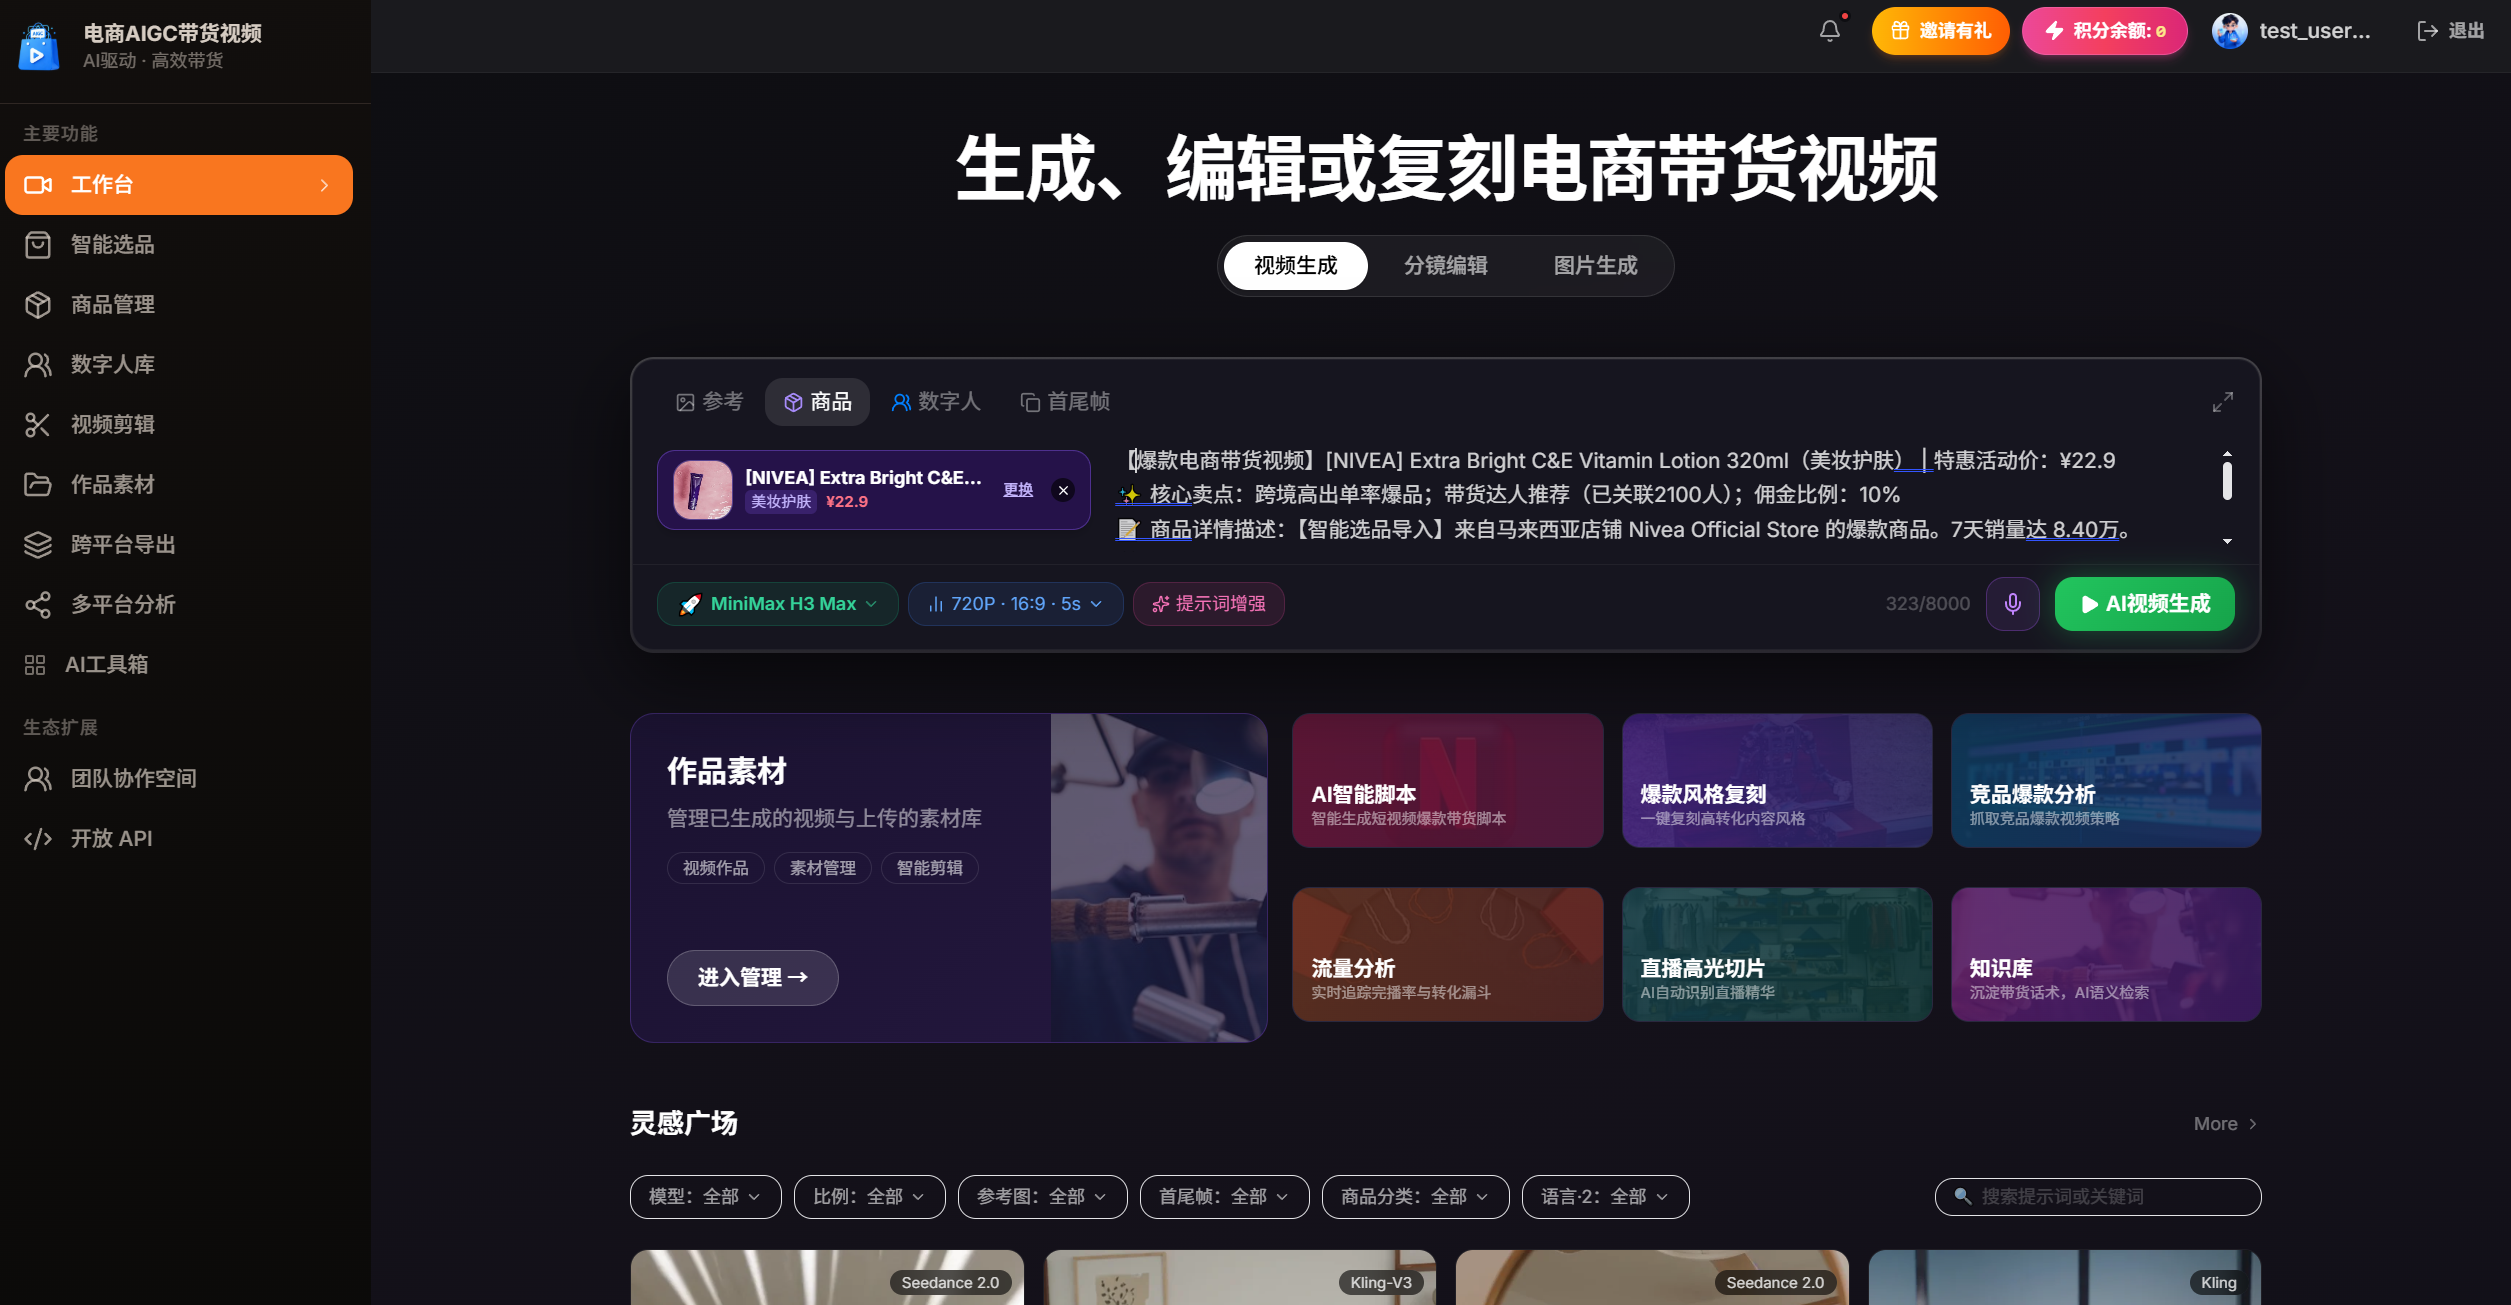
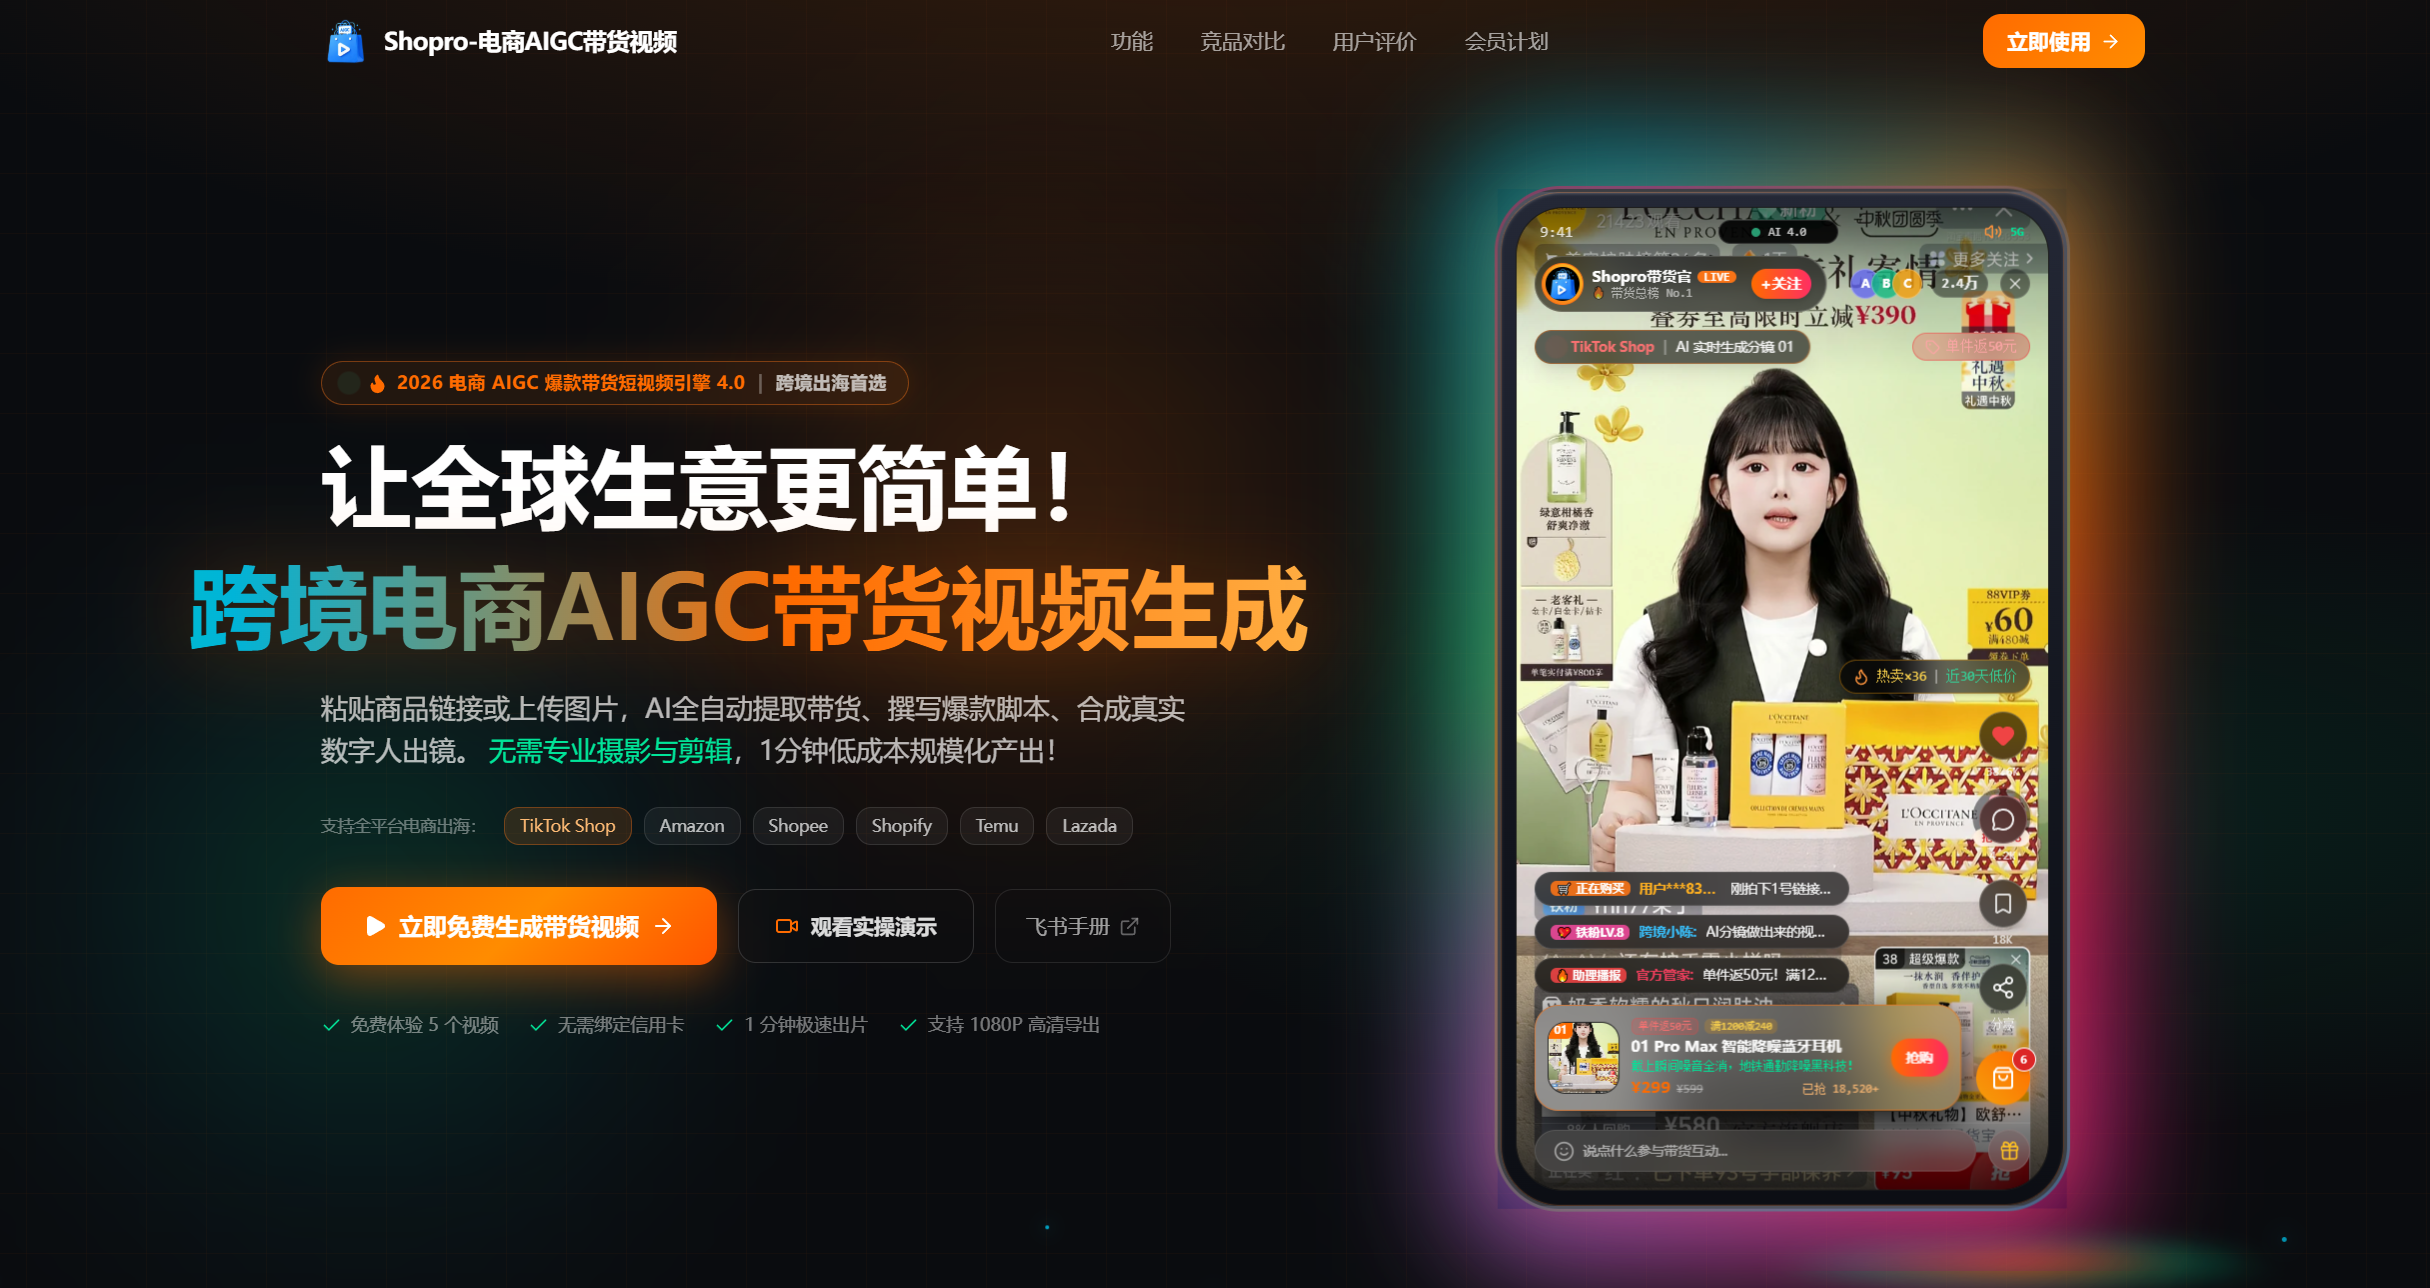
update README.md.

diff --git a/README.md b/README.md
@@ -16,7 +16,8 @@
 ---
 
 ## 📋 项目简介
-
+![输入图片说明](public/image.png)
+![输入图片说明](public/shop/image.png)
 **Shopro AI** 是面向抖音 / TikTok / 小红书 / Amazon 等电商平台的 **AIGC 带货短视频一站式 SaaS 创作平台**，通过多模态大模型与全链路智能工作流，打通「**商品输入 → 脚本生成 → 数字人合成 → 视频渲染 → 跨平台发布 → 数据回流**」的商业闭环，将传统「文案 + 拍摄 + 剪辑 + 翻译 + 运营」五人工作流压缩为「一人 + AI」：
 
 - 💸 **极致降本**：单条视频综合成本 < 1 元（10 积分 = 1 元）
